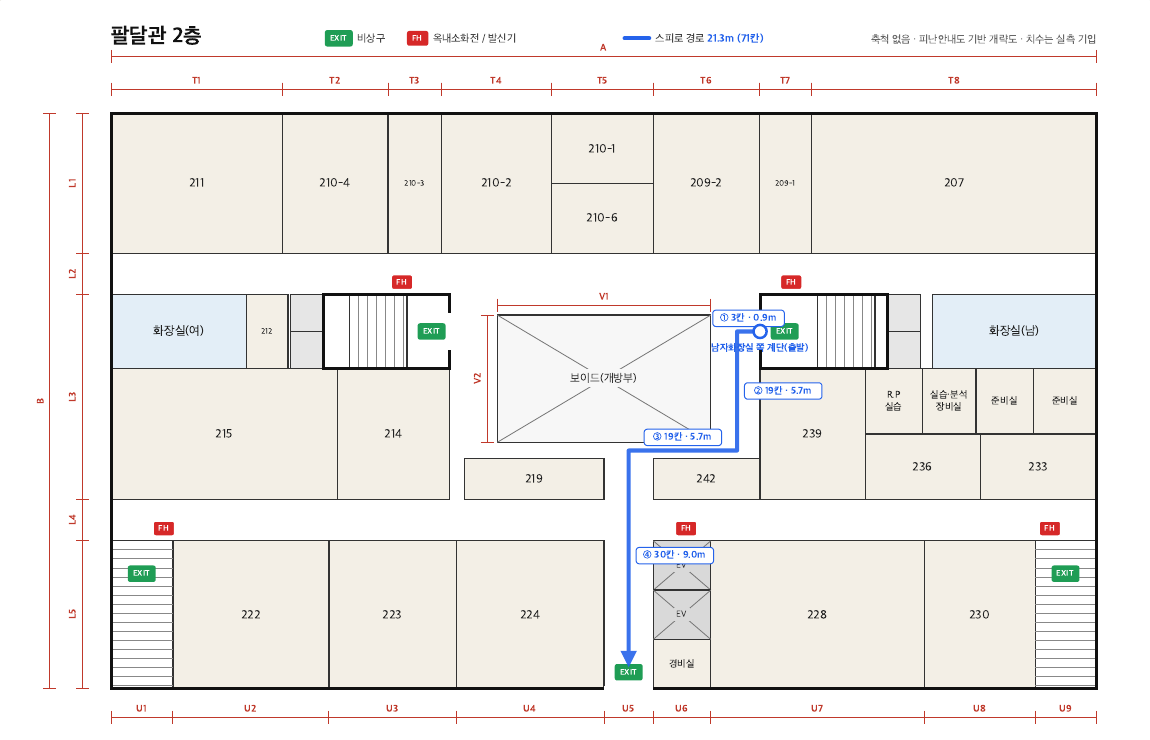
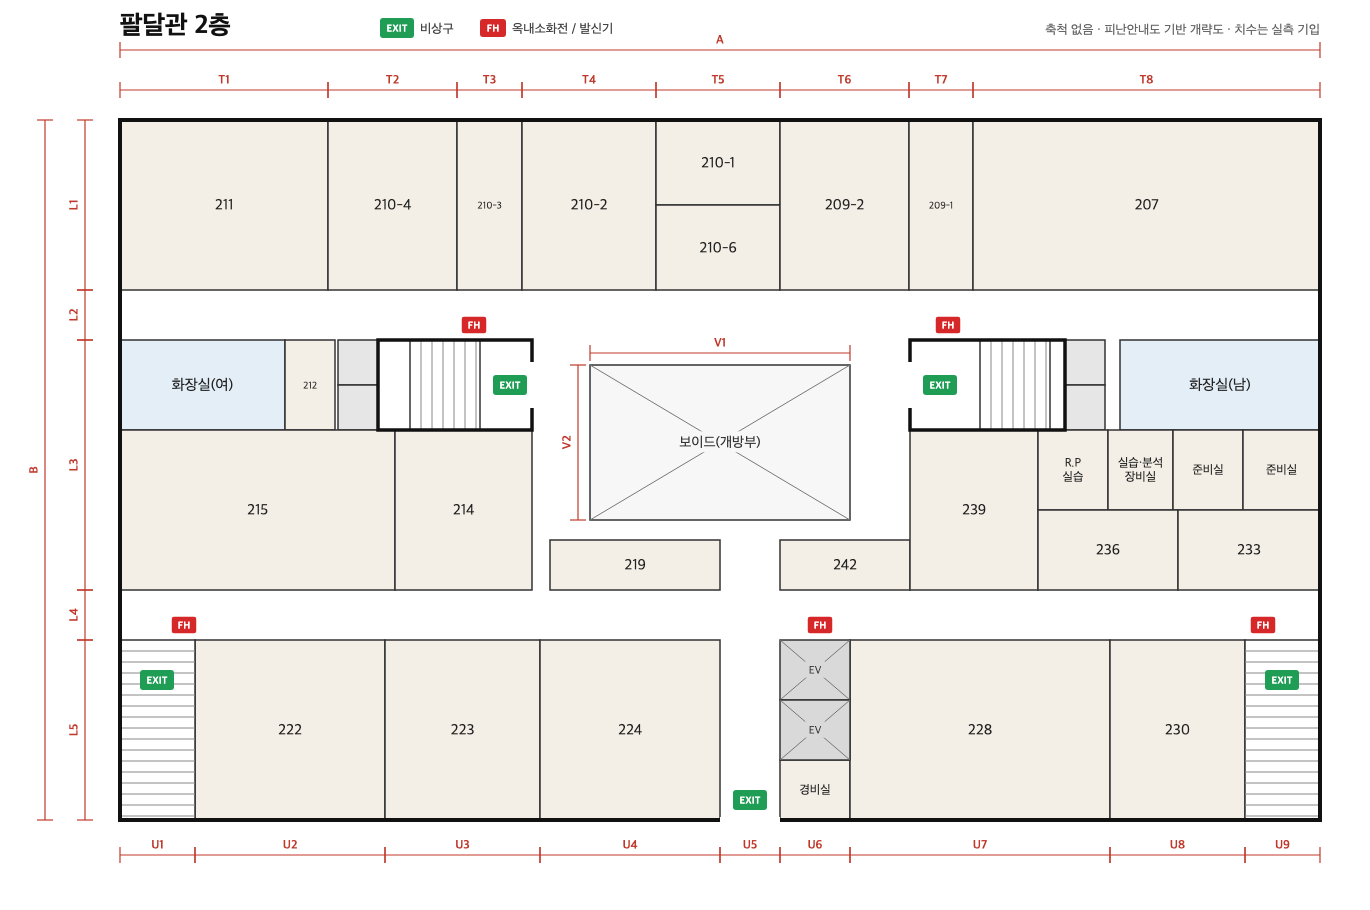
feat: 2층 도면에 고른 대피 경로 표시
- floorplan_2f.png: 팔달관_도면.html 2층 SVG에서 예전 경로(파란 선·구간 라벨·범례)만 지우고 다시 렌더링 (1370×910)
- 대시보드 도면 위에 고른 경로를 그림 — 파란 실선·구간 거리·끝 표시, 나머지 경로는 회색 점선
- R1은 FH 앞, R2는 그 뒤 간격만큼 오른쪽에서 대기로 표시하고 고른 경로를 따라 이동 표시

diff --git a/frontend/static/js/floorplan.js b/frontend/static/js/floorplan.js
@@ -20,12 +20,67 @@ function floorplanTab(floor, manual) {
   if (wrap.style.display === 'none') toggleFloorplan();
 }
 
-// 도면 이미지 기준 % 좌표 (도면 PNG의 파란 스피로 경로 꺾임점)
-const ROUTE_2F = [[64.1,60.8],[54.6,60.8],[54.6,89.6]];   // ROUTE_2F_M 구간과 1:1 (전체: [66.1,44.7],[64.1,45.3] 앞에 추가)
+// 2층 도면(floorplan_2f.png, 1370×910 — 팔달관_도면.html 2층 SVG에서 예전 경로만 지워 렌더링) 위 경로 꺾임점.
+// SVG 좌표 그대로 — 도면은 축척 없는 개략도라 m가 아니라 복도 모양을 따라 그림. 구간 수는 config.ROUTES_2F와 1:1
+const FP_W = 1370, FP_H = 910;
+// 셋 다 R1 출발점 = 오른쪽 계단 위 FH 앞(948, 315). R2는 그 뒤(오른쪽) 위쪽 복도에서 간격만큼 떨어져 대기
+const FP_R1_START = [948, 315];
+const FP_PX_PER_M = 21.5;                 // R2 대기 자리 그리기용 (① 첫 구간 68px ≈ 3.16m)
+const FP_ROUTES_2F = {
+  short:  [FP_R1_START, [880, 315], [880, 530], [750, 530], [750, 790]],   // ① 보이드·239 사이로 내려가 2층 출구
+  void:   [FP_R1_START, [560, 315], [560, 530], [750, 530], [750, 790]],   // ② 보이드 왼쪽(214 옆)으로 돌아 2층 출구
+  stairs: [FP_R1_START, [880, 315], [880, 385]],                           // ③ 오른쪽(남자화장실 쪽) 계단 앞
+};
+const toPct = pts => pts.map(([x, y]) => [x / FP_W * 100, y / FP_H * 100]);
+const fpR2Start = gap => [Math.min(1300, FP_R1_START[0] + gap * FP_PX_PER_M), FP_R1_START[1]];
+let ROUTE_KEY = 'stairs';
+let ROUTE_2F = [], ROUTE_2F_LEN_M = [];
+// 로봇 표시용 전체 경로 = R2 대기 자리 → R1 출발점(FH) → 고른 경로 (서버 config._full_route와 같은 모양)
+function buildRoute2F(key, gap) {
+  ROUTE_2F = toPct([fpR2Start(gap), ...FP_ROUTES_2F[key]]);
+  ROUTE_2F_LEN_M = [gap, ...BANDI.ROUTES_2F[key].legs.map(l => l.meters)];
+}
 const ROUTE_1F = [[67.5,45.0],[56.1,45.0],[56.1,18.5]];
-const ROUTE_2F_LEN_M = BANDI.ROUTE_2F_LEN_M;
 const ROUTE_1F_LEN_M = BANDI.ROUTE_1F_LEN_M;
 let FOLLOW_GAP_M = BANDI.FOLLOW_GAP_M;
+
+// 고른 경로를 도면 위에 그림 — 고른 것은 파랑 실선·화살표·구간 거리, 나머지는 회색 점선
+function drawRoutes2F(key) {
+  const svg = document.getElementById('fpRoutes2f');
+  if (!svg || svg.dataset.key === key) return;
+  svg.dataset.key = key;
+  const R = BANDI.ROUTES_2F, pts = p => p.map(q => q.join(',')).join(' ');
+  let html = '<defs><marker id="fpArr" viewBox="0 0 10 10" refX="6" refY="5" markerWidth="4" markerHeight="4" orient="auto">' +
+             '<path d="M0,0 L10,5 L0,10 z" fill="#2563eb"/></marker></defs>';
+  Object.entries(FP_ROUTES_2F).filter(([k]) => k !== key).forEach(([k, p]) =>
+    html += `<polyline points="${pts(p)}" fill="none" stroke="#94a3b8" stroke-width="3" stroke-dasharray="8 7" opacity="0.7"/>`);
+  const p = FP_ROUTES_2F[key], r = R[key];
+  html += `<polyline points="${pts(p)}" fill="none" stroke="#2563eb" stroke-width="6" stroke-linejoin="round" ` +
+          `stroke-linecap="round" opacity="0.92" marker-end="url(#fpArr)"/>`;
+  r.legs.forEach((l, i) => {                       // 구간 거리 라벨
+    const [x1, y1] = p[i], [x2, y2] = p[i + 1];
+    const t = `${i + 1}구간 · ${l.meters.toFixed(1)}m`, w = t.length * 7.2 + 14;
+    const short = Math.hypot(x2 - x1, y2 - y1) < w + 30;   // 짧은 구간은 R1 출발 표시와 안 겹치게 더 비켜서
+    const mx = (x1 + x2) / 2 + (x1 === x2 ? 52 : 0) - (short && y1 === y2 ? w / 2 + 20 : 0);
+    const my = (y1 + y2) / 2 + (y1 === y2 ? -16 : 0) + (short && x1 === x2 ? 0 : 0);
+    html += `<rect x="${mx - w / 2}" y="${my - 11}" width="${w}" height="21" rx="4" fill="#fff" stroke="#2563eb" stroke-width="1.2"/>` +
+            `<text x="${mx}" y="${my + 4}" font-size="12" font-weight="700" text-anchor="middle" fill="#2563eb">${t}</text>`;
+  });
+  const [sx, sy] = p[0], [ex, ey] = p[p.length - 1], [rx, ry] = fpR2Start(FOLLOW_GAP_M);
+  html += `<line x1="${rx}" y1="${ry}" x2="${sx}" y2="${sy}" stroke="#f59e0b" stroke-width="3" stroke-dasharray="6 6"/>` +
+          `<circle cx="${sx}" cy="${sy}" r="9" fill="#fff" stroke="#2563eb" stroke-width="3"/>` +   // R1 출발(FH 앞) — 이름은 로봇 표시가 보여 줌
+          `<text x="${ex - 14}" y="${ey + (r.end === 'stairs' ? 26 : -6)}" font-size="12" font-weight="700" ` +
+          `text-anchor="end" fill="#2563eb">${r.end === 'stairs' ? '계단 → R3(1층)' : '2층 출구'}</text>`;
+  const total = r.legs.reduce((a, l) => a + l.meters, 0);
+  html += `<line x1="745" y1="28" x2="775" y2="28" stroke="#2563eb" stroke-width="5" stroke-linecap="round"/>` +
+          `<text x="783" y="33" font-size="13" fill="#444">대피 경로 <tspan font-weight="700" fill="#2563eb">${r.label} · ${total.toFixed(1)}m</tspan></text>`;
+  svg.innerHTML = html;
+}
+function setRoute2F(key) {
+  if (!FP_ROUTES_2F[key] || !BANDI.ROUTES_2F[key]) return;
+  ROUTE_KEY = key;
+  drawRoutes2F(key);
+}
 // 경로 출발점에서 m미터 지점의 도면 좌표 — 구간(꺾임점) 단위로 도면 실측 거리를 따라감
 function pointAtMeters(route, lens, m) {
   m = Math.max(0, m);
@@ -76,8 +131,17 @@ let simMode = false;
 let followFallen = false;
 function updateFloorplan(d) {
   simMode = !!d.sim_mode;
+  if (d.route && d.route !== ROUTE_KEY) setRoute2F(d.route);
+  const gapKey = ROUTE_KEY + '@' + FOLLOW_GAP_M;            // 간격이 바뀌면 R2 대기 자리도 다시 그림
+  if (document.getElementById('fpRoutes2f').dataset.key !== gapKey) {
+    document.getElementById('fpRoutes2f').dataset.key = '';
+    drawRoutes2F(ROUTE_KEY);
+    document.getElementById('fpRoutes2f').dataset.key = gapKey;
+  }
+  buildRoute2F(ROUTE_KEY, FOLLOW_GAP_M);
   modeFactor = (TARGET_MODES[d.target] || {}).mps || 1;
   const sp = d.speeds || DEFAULT_SPEEDS;
+  // R1은 R2 대기 자리에서 간격만큼 앞(FH 앞)에서 출발
   placeRobot('robotR1', d.floor2, ROUTE_2F, ROUTE_2F_LEN_M, PATH_2F, FOLLOW_GAP_M, SPEED_REF / sp.floor2);
   // 따라가기 중 R1 진행 거리는 R2 출발점 기준 — offset 없이 그대로
   placeRobot('robotR2', d.rear,   ROUTE_2F, ROUTE_2F_LEN_M, PATH_R2, 0, SPEED_REF / sp.rear * (d.r2_dist_pct || 100) / 100);

diff --git a/frontend/templates/index.html b/frontend/templates/index.html
@@ -105,6 +105,7 @@
       <div id="floorplanWrap">
         <div class="fp-stage" id="fpStage2f">
           <img src="/floorplan-img/2f" alt="팔달관 2층 도면">
+          <svg class="fp-routes" id="fpRoutes2f" viewBox="0 0 1370 910" preserveAspectRatio="none"></svg>
           <div class="robot" id="robotR1"><div class="rb-dot">R1</div><div class="rb-tag">R1 선두</div></div>
           <div class="robot rb-rear" id="robotR2"><div class="rb-dot">R2</div><div class="rb-tag">R2 후방</div></div>
         </div>

diff --git a/frontend/static/css/dashboard.css b/frontend/static/css/dashboard.css
@@ -345,3 +345,6 @@ kbd { background: var(--panel2); border: 1px solid var(--bdr); border-radius: 4p
 .log-dl { display: flex; gap: 6px; }
 .log-dl .btn { padding: 4px 10px; font-size: 12px; }
 .log-head + .log-list { margin-top: 10px; }
+
+/* 2층 도면 위 대피 경로 (고른 경로는 진하게, 나머지는 옅게) */
+.fp-routes { position: absolute; inset: 0; width: 100%; height: 100%; pointer-events: none; z-index: 4; }
